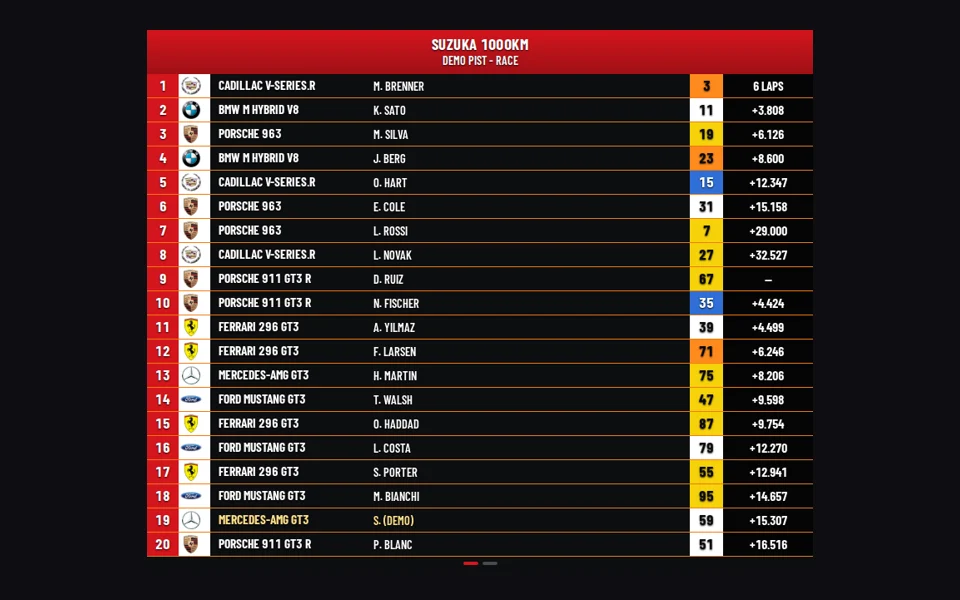
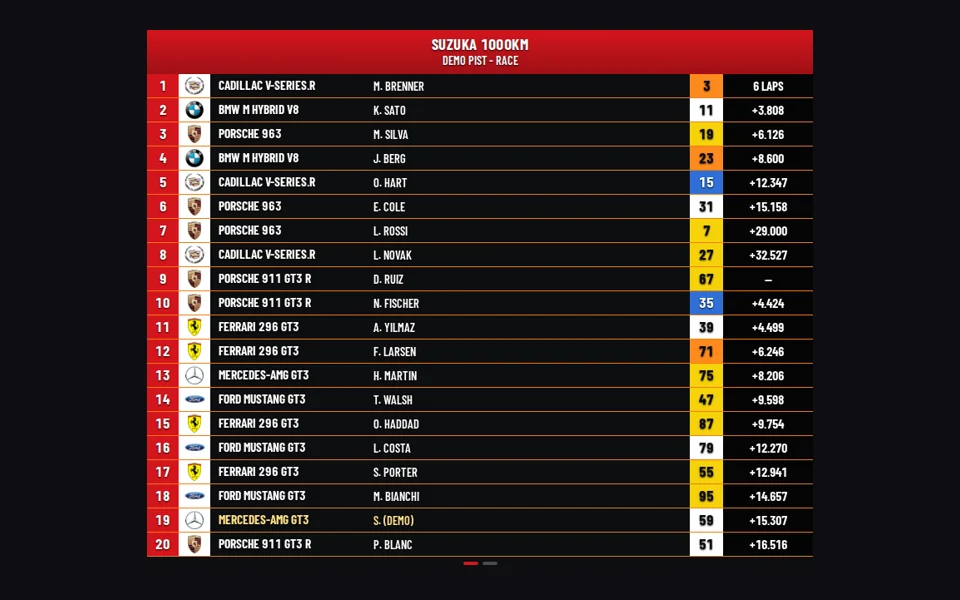
161026-350

Changed region(s): [[0.1875, 0.12, 0.2188, 0.93]]

diff --git a/src/sdk/tv.css b/src/sdk/tv.css
@@ -20,15 +20,21 @@
   font-variant-numeric: tabular-nums;
 }
 .tv-logo {
+  position: relative;
   display: inline-grid;
   place-items: center;
   background: #fff;
   overflow: hidden;
   flex: none;
 }
+/* Logo kutunun içine sığar (yüzde yükseklik grid / flex içinde çözülmeyebildiği için mutlak konum):
+   uzun (Porsche armatürü) ya da geniş (Ford) logolar kesilmez, oranı korunur */
 .tv-logo img {
-  width: 78%;
-  height: 78%;
+  position: absolute;
+  left: 12%;
+  top: 12%;
+  width: 76%;
+  height: 76%;
   object-fit: contain;
 }
 .tv-logo b {

diff --git a/src/overlays/tvlower/style.css b/src/overlays/tvlower/style.css
@@ -42,7 +42,9 @@
   border-right: 1px solid #e2e2e4;
 }
 .tvl-logo img {
-  width: 52%;
+  left: 22%;
+  top: 14%;
+  width: 56%;
   height: 72%;
 }
 .tvl-txt {

diff --git a/SURUM_NOTLARI.md b/SURUM_NOTLARI.md
@@ -3,6 +3,10 @@
 Sürüm biçimi **GGAAYY-NN**: yükseltmenin yapıldığı gün/ay/yıl ve her değişiklikte bir artan sıra numarası.
 En yeni sürüm en üstte.
 
+## 161026-350
+
+- TV overlay'lerinde marka logoları kutuya sığmıyordu (ör. TV Mücadele'de Porsche armatürünün üstü / altı kesiliyordu): logolar artık oranı korunarak kutunun içine sığar; 48 logo 5 overlay'in kutu boyutlarında denendi. Web sitesindeki TV overlay görselleri yenilendi.
+
 ## 161026-349
 
 - Web sitesi: 5 TV overlay'inin açıklamalarına "Ne zaman görünsün" ayarları eklendi (15 dil).
